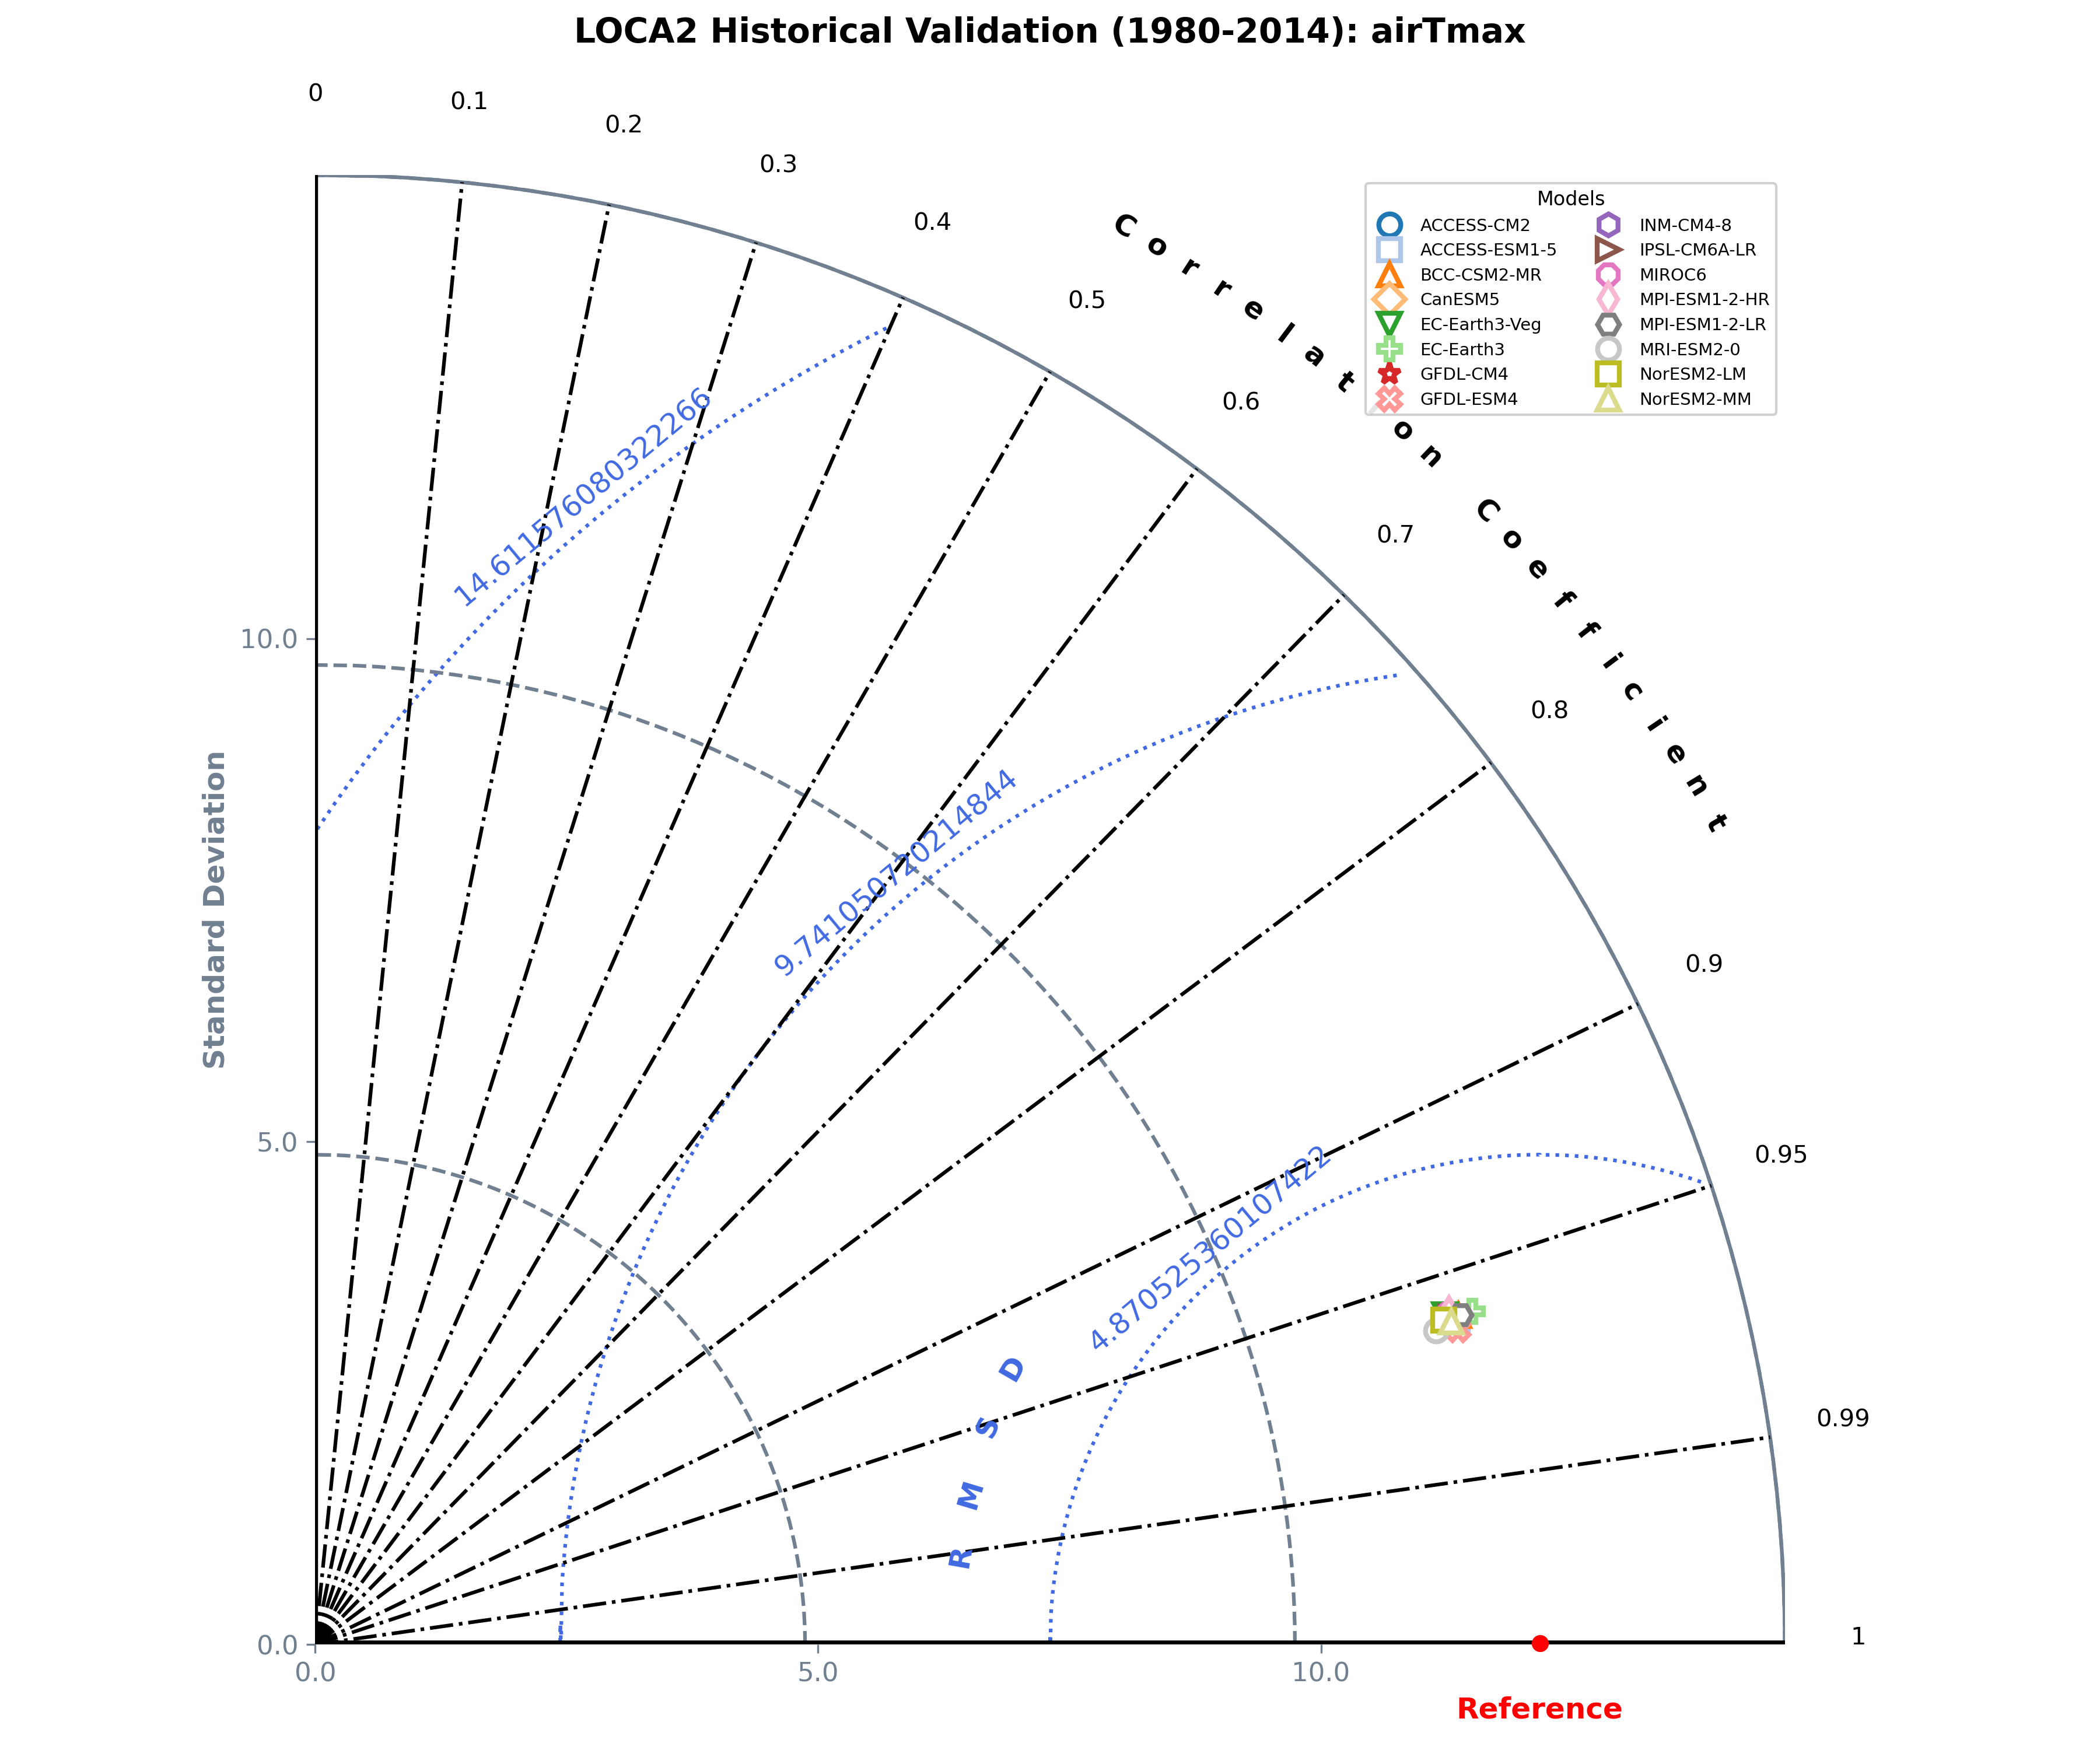
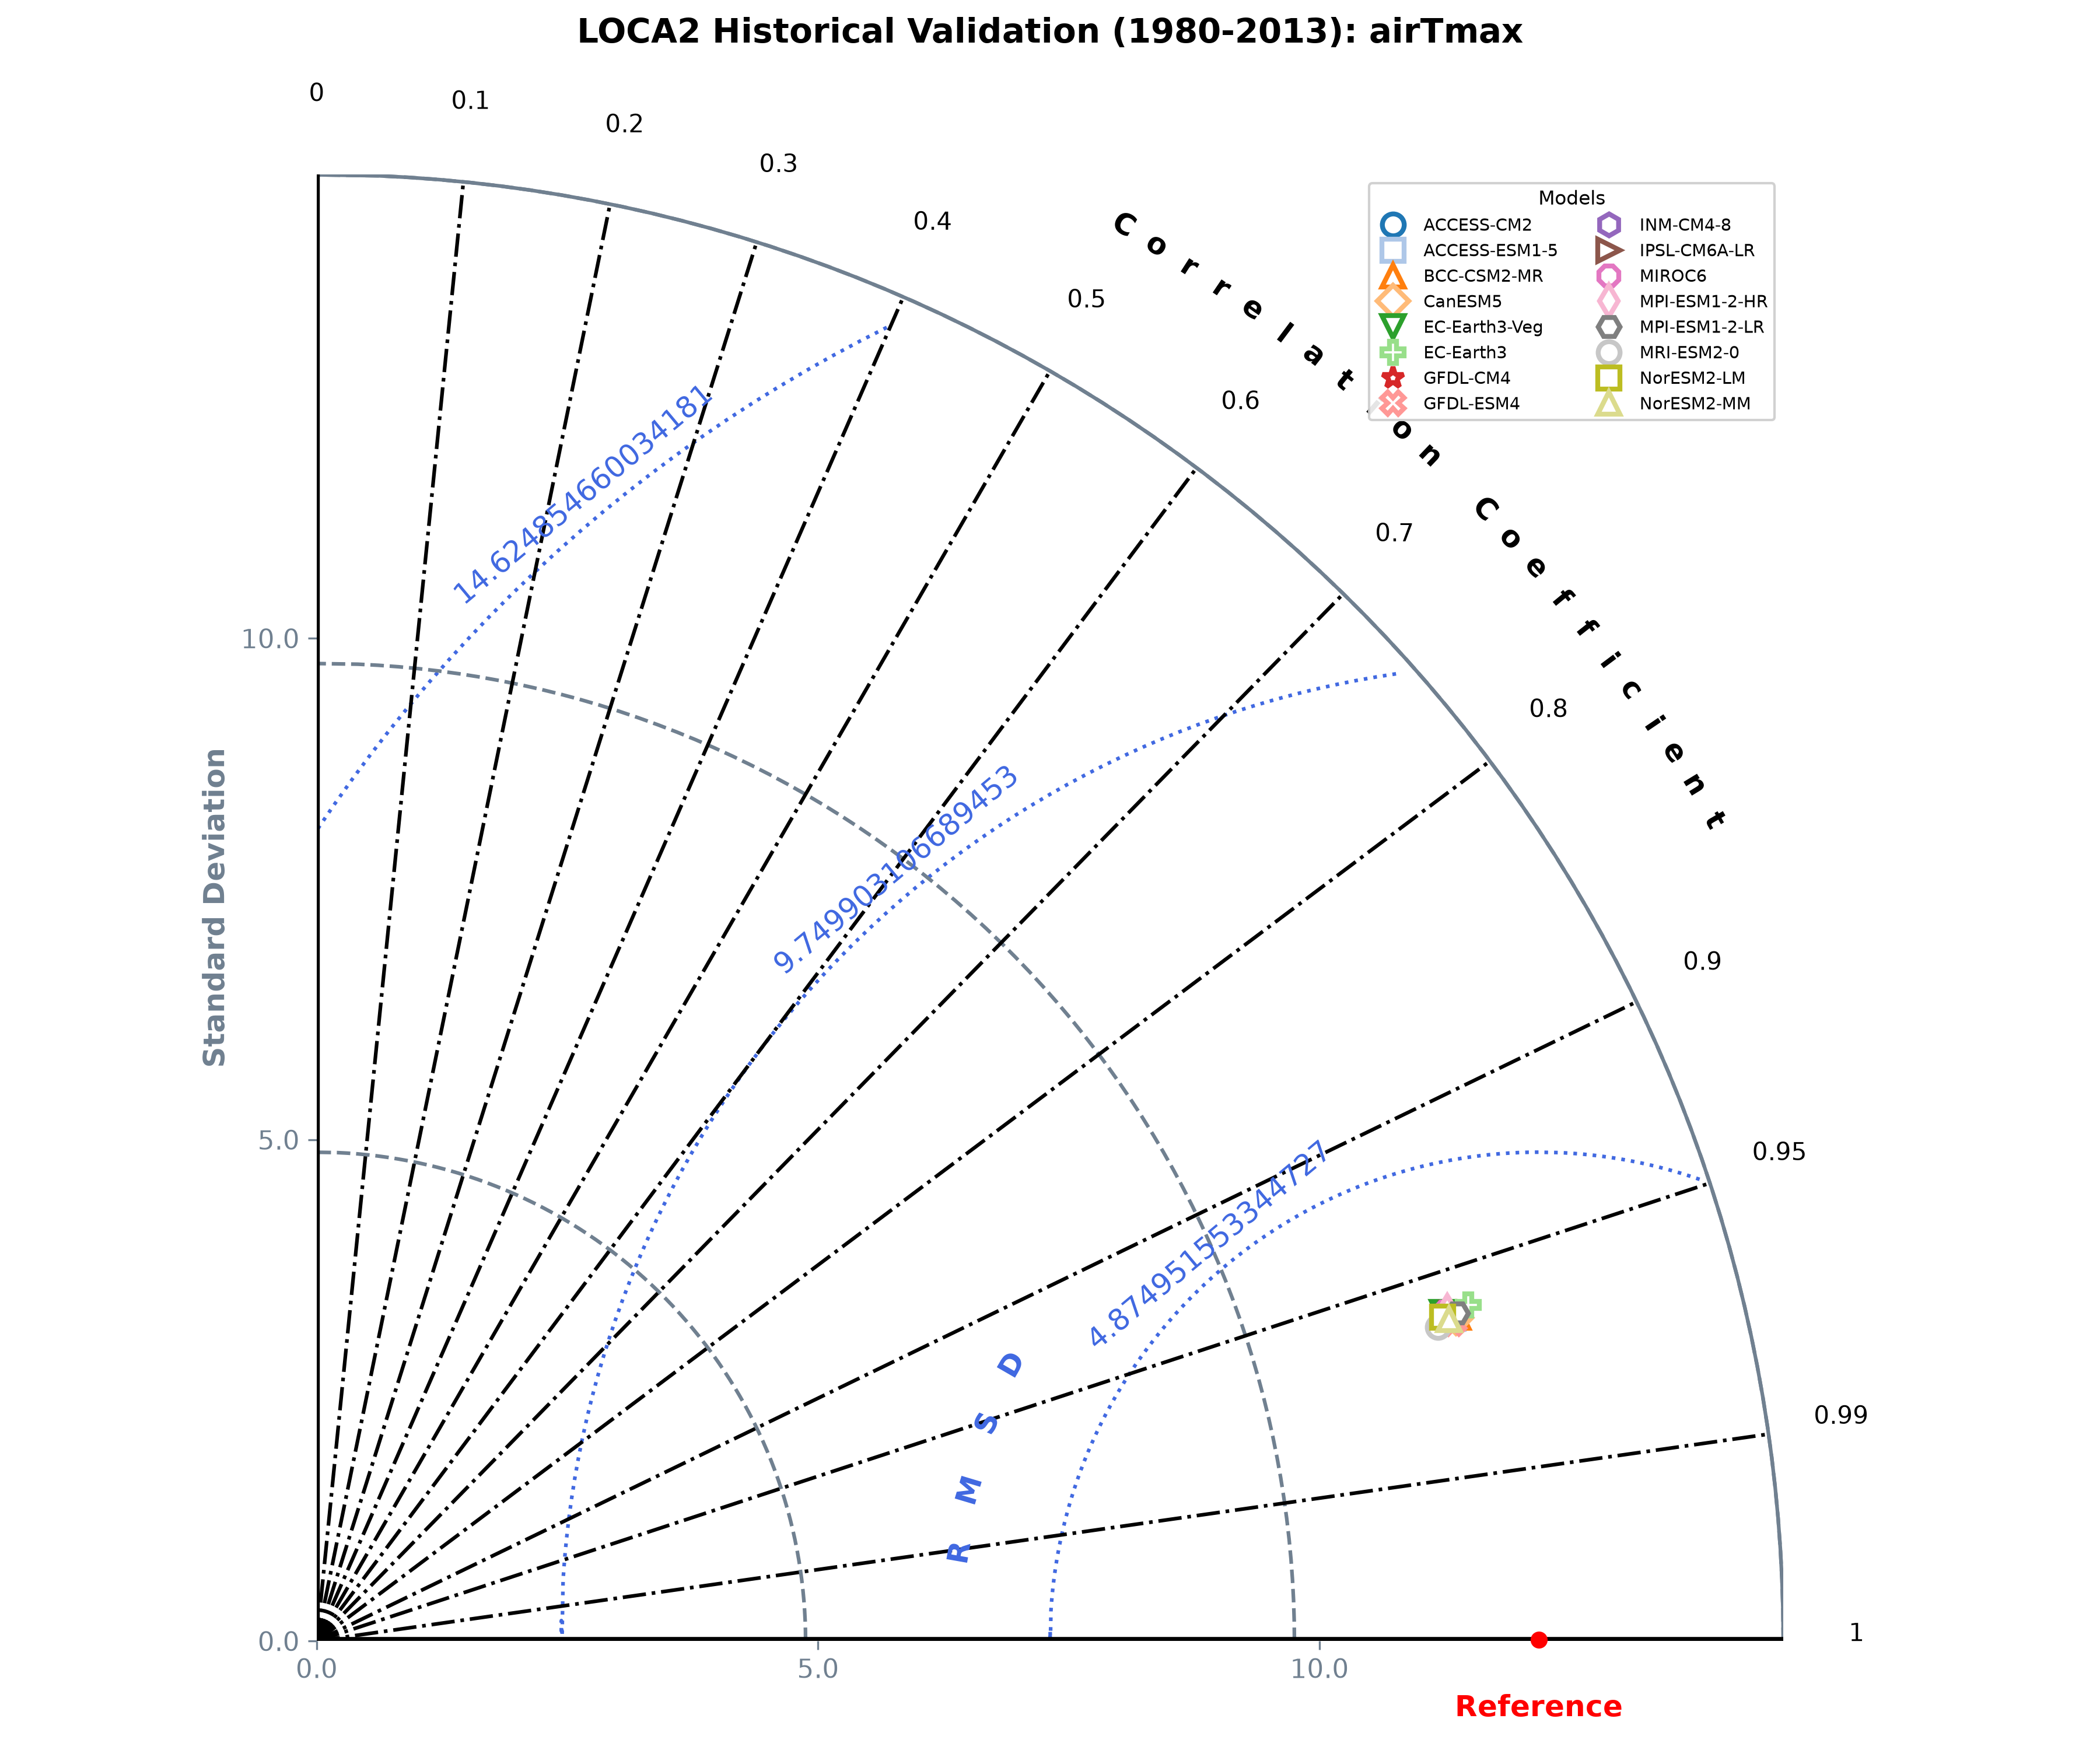
switched bash script to python for faster processing and added analyze_data for diagnostics

diff --git a/aggregate_livneh.py b/aggregate_livneh.py
@@ -1,0 +1,33 @@
+import xarray as xr
+import glob
+import os
+
+LIVNEH_DIR = "/net/nfs/squam/raid/data/LIVNEH/data.nodc.noaa.gov/nodc/archive/data/0129374/daily"
+OUT_FILE = "livneh_monthly_reference.nc"
+
+all_years = []
+
+for year in range(1980, 2014):  # 1980–2013 (matches your data)
+    files = sorted(glob.glob(f"{LIVNEH_DIR}/livneh_NAmerExt_15Oct2014.{year}*.nc"))
+    
+    if not files:
+        print(f"WARNING: missing year {year}")
+        continue
+
+    print("Processing", year)
+
+    ds = xr.open_mfdataset(files, combine="by_coords")
+
+    # Monthly aggregation
+    monthly = xr.Dataset()
+
+    monthly["Tmax"] = ds["Tmax"].resample(time="MS").mean()
+    monthly["Tmin"] = ds["Tmin"].resample(time="MS").mean()
+    monthly["Prec"] = ds["Prec"].resample(time="MS").sum()
+
+    all_years.append(monthly)
+
+final = xr.concat(all_years, dim="time")
+final.to_netcdf(OUT_FILE)
+
+print("Done:", OUT_FILE)

diff --git a/analyze_data.py b/analyze_data.py
@@ -1,0 +1,28 @@
+import xarray as xr
+import numpy as np
+
+ds = xr.open_dataset("livneh_monthly_reference.nc")
+
+print("TIME DIFF (median):")
+print(ds.time.diff("time").median().values)
+
+print("\nTIME RANGE:")
+print(ds.time.values[0], "→", ds.time.values[-1])
+
+print("\nSTATS (Tmax):")
+print("mean SD over time:", ds["Tmax"].std("time").mean().values)
+print("max SD over time:", ds["Tmax"].std("time").max().values)
+
+
+print(ds["Tmax"].shape)
+
+print("NaN fraction:",
+      np.isnan(ds["Tmax"]).sum().item() / ds["Tmax"].size)
+
+print("Min:", float(ds["Tmax"].min()))
+print("Max:", float(ds["Tmax"].max()))
+
+cell = ds["Tmax"].isel(lat=300, lon=400)
+
+print(cell.values[:12])
+print(cell.std().values)

diff --git a/conus_taylor_diagrams.py b/conus_taylor_diagrams.py
@@ -6,14 +6,14 @@ import matplotlib.pyplot as plt
 import skill_metrics as sm
 import seaborn as sns
 
-# path to CDO-aggregated 1980-2014 baseline reference
-LIVNEH_REF = os.path.expanduser("~/LOCA2-WBM_code/livneh_monthly_1980-2014.nc")
+# path to CDO-aggregated 1980-2013 baseline reference
+LIVNEH_REF = os.path.expanduser("~/LOCA2-WBM_code/livneh_monthly_1980-2013.nc")
 
 # directory with raw LOCA2-WBM downscaled model folders
 MODEL_DIR = "/net/nfs/echo/ankaa/LOCA2-WBM_output/LOCA2-WBM_historical"
 
 # output location for taylor diagrams
-OUTPUT_DIR = os.path.expanduser("~/LOCA2-WBM_code/plots")
+OUTPUT_DIR = os.path.expanduser("~/LOCA2-WBM_code/plots/taylor_diagrams")
 os.makedirs(OUTPUT_DIR, exist_ok=True)
 
 # mapping project variables to CDO processed Livneh keys
@@ -64,8 +64,8 @@ with xr.open_dataset(LIVNEH_REF) as obs_ds:
             if not glob.glob(model_pattern):
                 continue
             try:
-                with xr.open_mfdataset(model_pattern, combine='by_coords') as model_ds:
-                    model_trimmed = model_ds[model_var].sel(time=slice('1980-01-01', '2010-12-31'))
+                with xr.open_mfdataset(model_pattern, combine='by_coords', data_vars='all') as model_ds:
+                    model_trimmed = model_ds[model_var].sel(time=slice('1980-01-01', '2013-12-31'))
                     obs_regrid = obs_ds[livneh_var].interp_like(model_trimmed, method='nearest')
 
                     obs_regrid_data = obs_regrid.values.flatten()
@@ -131,14 +131,14 @@ with xr.open_dataset(LIVNEH_REF) as obs_ds:
 
             ax = plt.gca()
             leg = ax.get_legend()
-            handles = leg.legendHandles
+            handles = leg.legend_handles
             labels = [t.get_text() for t in leg.get_texts()]
             leg.remove()
             fig.subplots_adjust(right=0.9)
             ax.legend(handles, labels, loc='upper right', fontsize=7,
                     ncol=2, framealpha=0.9, title='Models', title_fontsize=8)
                     
-            plt.title(f'LOCA2 Historical Validation (1980-2014): {model_var}', y=1.08, fontsize=14, fontweight='bold')
+            plt.title(f'LOCA2 Historical Validation (1980-2013): {model_var}', y=1.08, fontsize=14, fontweight='bold')
             plt.tight_layout()
             output_plot = os.path.join(OUTPUT_DIR, f"conus_{model_var}_taylor.png")
             plt.savefig(output_plot, dpi=300)